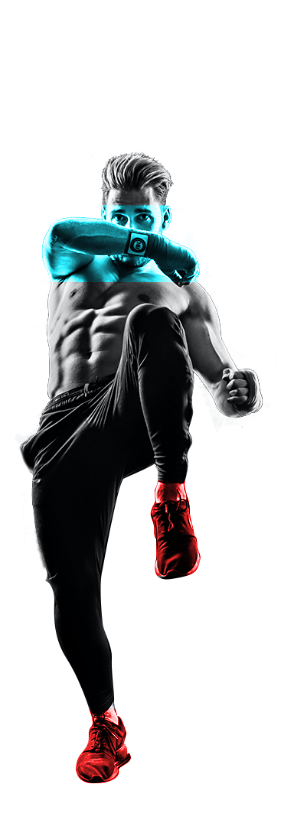
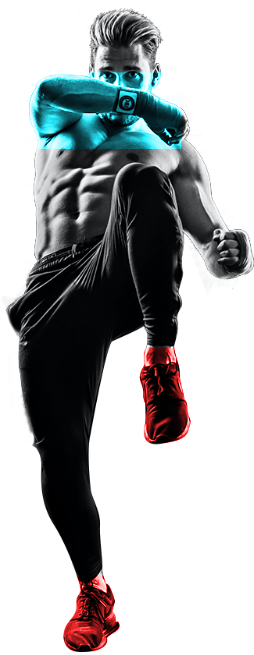
how it works is done

diff --git a/denis-trainer.html b/denis-trainer.html
@@ -91,7 +91,49 @@
                 <button id="nextBtn"><i class="fas fa-arrow-right"></i></button>
             </div>
         </div>
-      
+        <div class="hwork">
+            <h1>How it works</h1>
+            <div class="hwork__container-main">
+                <div class="hwork__container-main-side left">
+                    <div class="hwork__container-items">
+                        <i class="fas fa-dumbbell"></i>
+                        <div class="hwork__container-text">
+                            <h3>Online coaching</h3>
+                            <p>Lorem ipsum dolor sit amet, consectetur adipisicing elit. Ex, rerum.</p>
+                        </div>
+                    </div>
+                    <div class="hwork__container-items">
+                        <i class="fas fa-clipboard"></i>
+                        <div class="hwork__container-text">
+                            <h3>Workout program</h3>
+                            <p>    Lorem ipsum dolor sit amet, consectetur adipisicing elit. Iure, deserunt.</p>
+                        </div>
+                    </div>
+                </div>
+              
+                <div class="hwork__container-main-side mid">
+                    <img src="imgs/pose4-2.png" alt="">
+                </div>
+                
+                <div class="hwork__container-main-side right">
+                    <div class="hwork__container-items">
+                        <div class="hwork__container-text">
+                            <h3>Meal plan</h3>
+                            <p>Lorem ipsum dolor sit amet, consectetur adipisicing elit. Ex, rerum.</p>
+                        </div>
+                        <i class="fas fa-utensils"></i>
+                    </div>
+                    <div class="hwork__container-items">
+                        <div class="hwork__container-text">
+                            <h3>Membership</h3>
+                            <p>    Lorem ipsum dolor sit amet, consectetur adipisicing elit. Iure, deserunt.</p>
+                        </div>
+                        <i class="fas fa-check-circle"></i>
+                    </div>
+                </div>
+                
+            </div>
+        </div>
     </div>
 </body>
 

diff --git a/css/denis-trainer.css b/css/denis-trainer.css
@@ -67,7 +67,7 @@ h1 {
   flex-direction: row;
   align-items: center;
   width: 50%;
-  padding: 0 4em;
+  padding: 0 5em;
 }
 .navbar__right {
   display: flex;
@@ -75,7 +75,7 @@ h1 {
   flex-direction: row;
   align-items: center;
   width: 50%;
-  padding: 0 4em;
+  padding: 0 5em;
   justify-content: flex-end;
 }
 
@@ -83,7 +83,7 @@ h1 {
   background: linear-gradient(130deg, #efefef 25%, white 80%);
   width: 100%;
   height: 100vh;
-  padding: 0 4em;
+  padding: 0 5em;
   padding-top: 1.5em;
 }
 .container__header .header {
@@ -123,7 +123,7 @@ h1 {
   background: white;
   width: 100%;
   height: auto;
-  padding: 0 4em;
+  padding: 0 5em;
   padding-top: 1.5em;
   height: auto;
   position: relative;
@@ -159,7 +159,7 @@ h1 {
   background: white;
   width: 100%;
   height: auto;
-  padding: 0 4em;
+  padding: 0 5em;
   padding-top: 1.5em;
   display: flex;
   justify-content: space-between;
@@ -234,6 +234,56 @@ h1 {
   height: 1em;
   border-radius: 100px;
   background-color: #ff2a2a;
+}
+
+.hwork {
+  background: white;
+  width: 100%;
+  height: auto;
+  padding: 0 5em;
+  padding-top: 1.5em;
+  text-align: center;
+}
+.hwork h1 {
+  margin-bottom: 4rem;
+}
+.hwork__container-main {
+  display: flex;
+  justify-content: space-between;
+  flex-direction: row;
+}
+.hwork__container-main .left {
+  text-align: right;
+}
+.hwork__container-main .right {
+  text-align: left;
+}
+.hwork__container-main-side {
+  width: 33%;
+}
+.hwork__container-main-side h3 {
+  font-size: 1.9em;
+  margin-bottom: 1rem;
+}
+.hwork__container-main-side p {
+  font-size: 1.25em;
+}
+.hwork__container-main .mid img {
+  width: 55%;
+}
+.hwork__container-items {
+  display: flex;
+  justify-content: space-between;
+  flex-direction: row;
+  width: 100%;
+  margin-bottom: 2rem;
+}
+.hwork__container-items i {
+  font-size: 3.5em;
+  color: #ff2a2a;
+}
+.hwork__container-text {
+  width: 80%;
 }
 
 .container__header .header__left {

diff --git a/scss/_layout.scss b/scss/_layout.scss
@@ -203,3 +203,58 @@
         }
     }
 }
+
+.hwork {
+    @include container(white, auto);
+    text-align: center;
+
+    h1 {
+        margin-bottom: $padding-under*2;
+    }
+
+    &__container-main {
+        @include rowFlex;
+
+
+        .left {
+            text-align: right;
+        }
+
+        .right {
+            text-align: left;
+        }
+
+        &-side {
+            width: 33%;
+
+            h3 {
+                font-size: $h3-size;
+                margin-bottom: $padding-under/2;
+            }
+
+            p {
+                font-size: $text-size/1.2;
+            }
+        }
+        .mid {
+            img {
+                width: 55%;
+            }
+        }
+    }
+
+    &__container-items {
+        @include rowFlex;
+        width: 100%;
+        margin-bottom: $padding-under;
+
+        i {
+            font-size: $bigicon;
+            color: $main-color;
+        }
+    }
+
+    &__container-text {
+        width: 80%;
+    }
+}

diff --git a/scss/_base.scss b/scss/_base.scss
@@ -10,13 +10,15 @@ $main-gradient: linear-gradient(130deg, rgba(239, 239, 239, 1) 25%, rgba(255, 25
 
 //MARGIN-PADDING
 $padding-above: 1.5em;
-$padding-inner:0 4em;
+$padding-inner:0 5em;
 $padding-under: 2rem;
 
 //FONTSIZE
 $h1-size: 4.3em;
+$h3-size: 1.9em;
 $text-size: 1.5em;
 $smallicon: 2.5rem;
+$bigicon: 3.5em;
 
 //WIDTH,HEIGHT
 $about-scale:55%;
